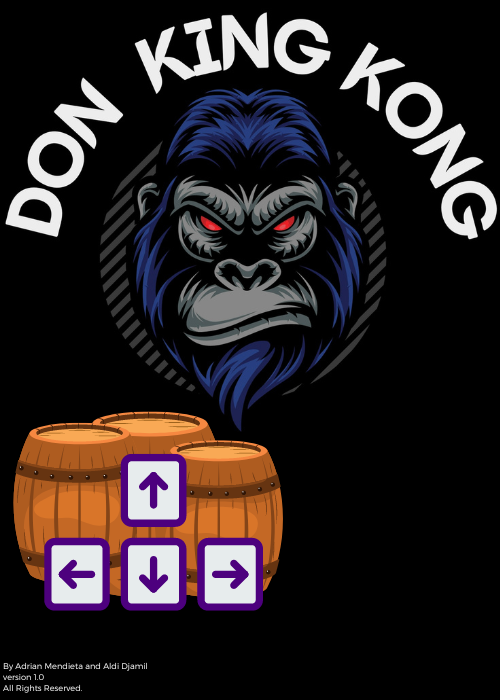
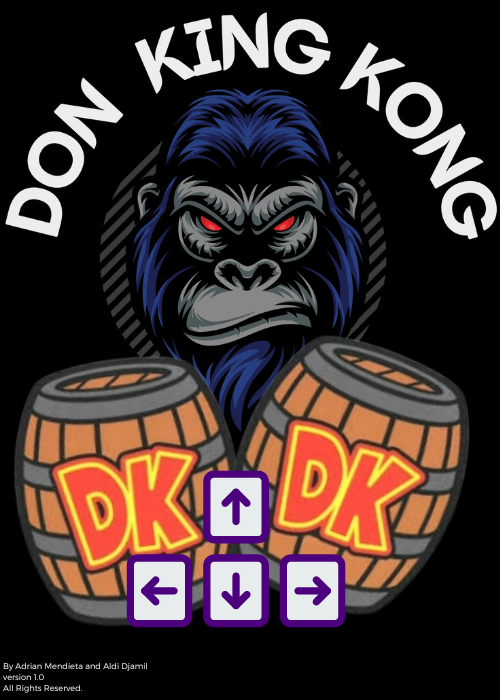
look and feel

Changed region(s): [[0.0, 0.48, 0.96, 0.9]]

diff --git a/js/app.js b/js/app.js
@@ -63,9 +63,9 @@ const appBarrels = {
                 new LiveCounter(this.ctx, this.canvasSize, 20, 20, 46, 5),
             )
 
-        this.mario = new Mario(this.ctx, this.canvasSize, 15, 40, 10, 630, this.lives)
+        this.mario = new Mario(this.ctx, this.canvasSize, 30, 50, 10, 630, this.lives)
 
-        this.don = new Don(this.ctx, this.canvasSize, 30, 50, 500, 40)
+        this.don = new Don(this.ctx, this.canvasSize, 50, 80, 500, 18)
 
         this.barrels.push(new Barrel(this.ctx, this.canvasSize))
         this.barrels = []
@@ -76,7 +76,7 @@ const appBarrels = {
     start() {
         this.reset()
         this.interval = setInterval(() => {
-            this.framesCounter > 300 ? this.framesCounter = 0 : this.framesCounter++
+            this.framesCounter > 5000 ? this.framesCounter = 0 : this.framesCounter++
             this.clearAll()
             this.drawAll()
             this.generateBarrel()
@@ -88,7 +88,7 @@ const appBarrels = {
             if (this.mario.canMoveLeft) this.mario.moveLeft()
             if (this.mario.canMoveRight) this.mario.moveRight()
 
-        }, 100)
+        }, 1000 / 20)
     },
 
     drawAll() {
@@ -97,32 +97,30 @@ const appBarrels = {
         this.drawWinGame()
         this.platforms.forEach(Platform => Platform.draw())
         this.stairs.forEach(Stairs => Stairs.draw())
-        this.mario.draw()
+        this.mario.draw(this.framesCounter)
         this.mario.move()
-        this.don.draw()
-        this.don.move()
         this.win.draw()
+        this.don.draw(this.framesCounter)
+        this.don.move()
         this.barrels.forEach(Barrel => Barrel.draw())
         this.barrels.forEach(Barrel => Barrel.move())
         this.livesCounter.forEach(LiveCounter => LiveCounter.draw())
     },
 
     drawBackground() {
-        // this.ctx.fillStyle = 'darkgrey'
-        // this.ctx.fillRect(0, 0, this.canvasSize.w, this.canvasSize.h)
         this.imageInstance = new Image()
         this.imageInstance.src = './images/backgroundDonkey.png'
         this.ctx.drawImage(this.imageInstance, 0, 0, this.canvasSize.w, this.canvasSize.h)
     },
 
     drawGameOver() {
-        this.imageInstance = new Image()
-        this.imageInstance.src = './images/gameover.png'
+        this.gameIsOver = new Image()
+        this.gameIsOver.src = './images/gameover.png'
     },
 
     drawWinGame() {
-        this.imageInstance = new Image()
-        this.imageInstance.src = './images/win.png'
+        this.gameIsWin = new Image()
+        this.gameIsWin.src = './images/win.png'
     },
 
     clearAll() {
@@ -130,7 +128,7 @@ const appBarrels = {
     },
 
     generateBarrel() {
-        if (this.framesCounter % 10 === 0) {
+        if (this.framesCounter % 90 === 0) {
             this.barrels.push(new Barrel(this.ctx, this.canvasSize))
         }
     },
@@ -140,7 +138,6 @@ const appBarrels = {
     },
 
     isColissionWithBarrel() {
-
         this.barrels.forEach((barrel, index) => {
             if (
                 this.mario.marioPos.x < barrel.barrelPos.x + barrel.barrelSize.w &&
@@ -148,10 +145,8 @@ const appBarrels = {
                 this.mario.marioPos.y + this.mario.marioSize.h < barrel.barrelPos.y + barrel.barrelSize.h &&
                 this.mario.marioSize.h + this.mario.marioPos.y > barrel.barrelPos.y
             ) {
-                // borrrrrrrrrra
                 this.barrels.splice(index, 1)
                 this.mario.lives--
-                // console.log("BORRA ESTA COSITA =====>", this.livesCounter.pop())
                 this.livesCounter.pop()
                 if (this.mario.lives === 0) this.gameOver()
 
@@ -212,7 +207,7 @@ const appBarrels = {
             this.mario.marioPos.y < this.don.donPos.y + this.don.donSize.h &&
             this.mario.marioSize.h + this.mario.marioPos.y > this.don.donPos.y
         )
-            // this.livesCounter.splice(0, 3)
+
             this.gameOver()
     },
 
@@ -220,17 +215,16 @@ const appBarrels = {
 
         clearInterval(this.interval)
         this.clearAll()
-        this.ctx.drawImage(this.imageInstance, 0, 0, this.canvasSize.w, this.canvasSize.h)
+        this.ctx.drawImage(this.gameIsOver, 0, 0, this.canvasSize.w, this.canvasSize.h)
         setTimeout(() => location.reload(), 2000)
     },
-
 
     winGame() {
 
         clearInterval(this.interval)
-        // { return alert('YOU WIN') }
         this.clearAll()
-        this.ctx.drawImage(this.imageInstance, 0, 0, this.canvasSize.w, this.canvasSize.h)
+        this.ctx.drawImage(this.gameIsWin, 0, 0, this.canvasSize.w, this.canvasSize.h)
         setTimeout(() => location.reload(), 5000)
     },
+
 }

diff --git a/js/mario.js b/js/mario.js
@@ -15,6 +15,11 @@ class Mario {
         this.gravityActive = true
         this.gravity = 0.4;
         this.canMoveUpDown = true
+        this.imageInstance = new Image()
+        this.imageInstance.src = './images/marioright.png'
+        this.imageInstance.frames = 3
+        this.imageInstance.framesIndex  = 0
+        
         this.init()
         this.setEventListeners()
         this.canMoveRight = false
@@ -27,10 +32,19 @@ class Mario {
         this.move()
     }
 
-    draw() {
-        this.imageInstance = new Image()
-        this.imageInstance.src = './images/car.png'
-        this.ctx.drawImage(this.imageInstance, this.marioPos.x, this.marioPos.y, this.marioSize.w, this.marioSize.h)
+    draw(framesCounter) {
+        this.ctx.drawImage(this.imageInstance, (this.imageInstance.width / this.imageInstance.frames)*this.imageInstance.framesIndex, 0, this.imageInstance.width/this.imageInstance.frames, this.imageInstance.height, this.marioPos.x, this.marioPos.y, this.marioSize.w, this.marioSize.h)
+        this.animate(framesCounter)
+    }
+
+    animate(framesCounter) {
+        if (framesCounter % 4 == 0) {
+            this.imageInstance.framesIndex++
+        }
+
+        if (this.imageInstance.framesIndex >= this.imageInstance.frames) {
+            this.imageInstance.framesIndex = 0
+        }
     }
 
     move() {
@@ -46,7 +60,7 @@ class Mario {
         if (this.canMoveUpDown) { this.marioPos.y += 10 }
     }
     moveRight (){
-        if(this.canMoveRight) {this.marioPos.x += 15}
+        if (this.canMoveRight) {this.marioPos.x += 15}
     }
     moveLeft (){
         if (this.canMoveLeft) {this.marioPos.x -= 15}
@@ -55,15 +69,15 @@ class Mario {
     setEventListeners() {
 
        document.onkeydown = evt => {
-            if (evt.key === 'ArrowLeft' && this.marioPos.x > 1) this.canMoveLeft = true
-            if (evt.key === 'ArrowRight' && this.marioPos.x < 850) this.canMoveRight = true
+           if (evt.key === 'ArrowLeft' && this.marioPos.x < this.canvasSize.w - this.marioSize.w) this.canMoveLeft = true
+           if (evt.key === 'ArrowRight' && this.marioPos.x < this.canvasSize.w - this.marioSize.w) this.canMoveRight = true
             if (evt.key === 'ArrowUp' && this.marioPos.y > 1) { this.moveUp() }
             if (evt.key === 'ArrowDown' && this.marioPos.y < 570) { this.moveDown() }
         }
 
         document.onkeyup = evt => {
-            if (evt.key === 'ArrowLeft' && this.marioPos.x > 1) this.canMoveLeft = false
-            if (evt.key === 'ArrowRight' && this.marioPos.x < 850) this.canMoveRight = false
+            if (evt.key === 'ArrowLeft' && this.marioPos.x < this.canvasSize.w - this.marioSize.w) this.canMoveLeft = false
+            if (evt.key === 'ArrowRight' && this.marioPos.x < this.canvasSize.w - this.marioSize.w) this.canMoveRight = false
         }
 
     }

diff --git a/js/don.js b/js/don.js
@@ -1,3 +1,39 @@
+// class Don {
+//     constructor(ctx, canvasSize, donWidth, donHeight, donX, donY) {
+//         this.ctx = ctx
+//         this.canvasSize = canvasSize
+//         this.donSize = {
+//             w: donWidth,
+//             h: donHeight
+//         }
+//         this.donPos = {
+//             x: donX,
+//             y: donY
+//         }
+//         this.donVel = {
+//             x: 10, y: 0
+//         }
+//         this.init()
+//     }
+//     init() {
+//         this.draw()
+//     }
+//     draw() {
+//         this.imageInstance = new Image()
+//         this.imageInstance.src = './images/car.png'
+//         this.ctx.drawImage(this.imageInstance, this.donPos.x, this.donPos.y, this.donSize.w, this.donSize.h)
+//         this.move()
+//     }
+//     move() {
+//         if (this.donPos.x > 800) {
+//             this.donVel.x *= -1
+//         }
+//         if (this.donPos.x < 10) {
+//             this.donVel.x *= -1
+//         }
+//         this.donPos.x += this.donVel.x
+//     }
+// }
 class Don {
     constructor(ctx, canvasSize, donWidth, donHeight, donX, donY) {
         this.ctx = ctx
@@ -11,18 +47,38 @@ class Don {
             y: donY
         }
         this.donVel = {
-            x: 10, y: 0
+            x: 8, y: 0
         }
+        this.imageInstance = new Image()
+        this.imageInstance.src = './images/donkeymove.png'
+        this.imageInstance.frames = 3
+        this.imageInstance.framesIndex = 0
         this.init()
     }
     init() {
         this.draw()
-    }
-    draw() {
-        this.imageInstance = new Image()
-        this.imageInstance.src = './images/car.png'
-        this.ctx.drawImage(this.imageInstance, this.donPos.x, this.donPos.y, this.donSize.w, this.donSize.h)
         this.move()
+    }
+    draw(framesCounter) {
+        this.ctx.drawImage(
+            this.imageInstance,
+            (this.imageInstance.width / this.imageInstance.frames) * this.imageInstance.framesIndex,
+            0,
+            this.imageInstance.width / this.imageInstance.frames,
+            this.imageInstance.height,
+            this.donPos.x,
+            this.donPos.y,
+            this.donSize.w,
+            this.donSize.h)
+        this.animate(framesCounter)
+    }
+    animate(framesCounter) {
+        if (framesCounter % 4 == 0) {
+            this.imageInstance.framesIndex++
+        }
+        if (this.imageInstance.framesIndex >= this.imageInstance.frames) {
+            this.imageInstance.framesIndex = 0
+        }
     }
     move() {
         if (this.donPos.x > 800) {

diff --git a/styles/style.css b/styles/style.css
@@ -1,7 +1,7 @@
 body {
     padding: 0;
     text-align: center;
-    /* background-color: black; */
+    background-color: black;
 }
 
 .game-intro {
@@ -35,6 +35,7 @@ body button {
     margin-bottom: 20px;
 }
 
+
 #game-board {
     float: left;
     padding: 20px 0px;
@@ -42,5 +43,5 @@ body button {
 
 canvas {
     border: 2px greenyellow solid;
-    background-color: grey;
+    background-image: url(../images/backgroundDonkey.png);
 }

diff --git a/index.html b/index.html
@@ -21,7 +21,6 @@
 
     <div id="game-board">
         <canvas id="canvas" width="900" height="700"></canvas>
-
     </div>
 
     <script type="text/javascript" src="./js/app.js"></script>
@@ -33,7 +32,6 @@
     <script type="text/javascript" src="./js/stairs.js"></script>
     <script type="text/javascript" src="./js/lives.js"></script>
     <script type="text/javascript" src="./js/index.js"></script>
-
 
 </body>
 

diff --git a/js/index.js b/js/index.js
@@ -1,8 +1,10 @@
+
 window.onload = () => {document.getElementById('start-button').onclick = () => {
+    appBarrels.init();
+    music.play();
     startGame();
 };
-
-    function startGame() {
-        appBarrels.init()
-    }
+    // function startGame() {
+    //     appBarrels.init()
+    // }
 };
